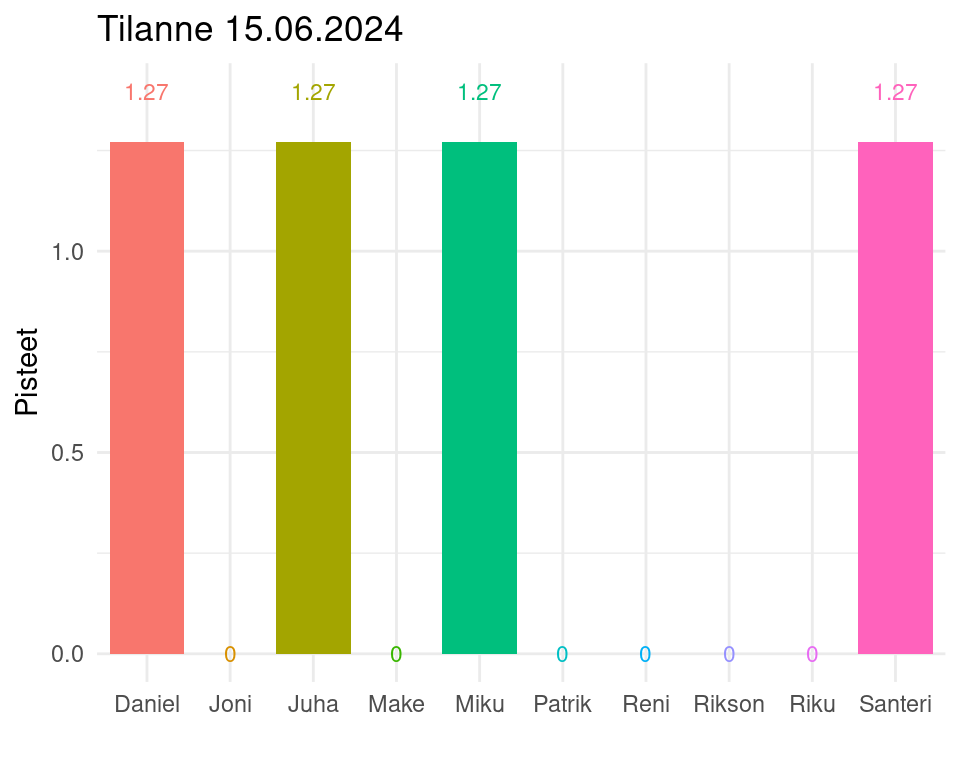
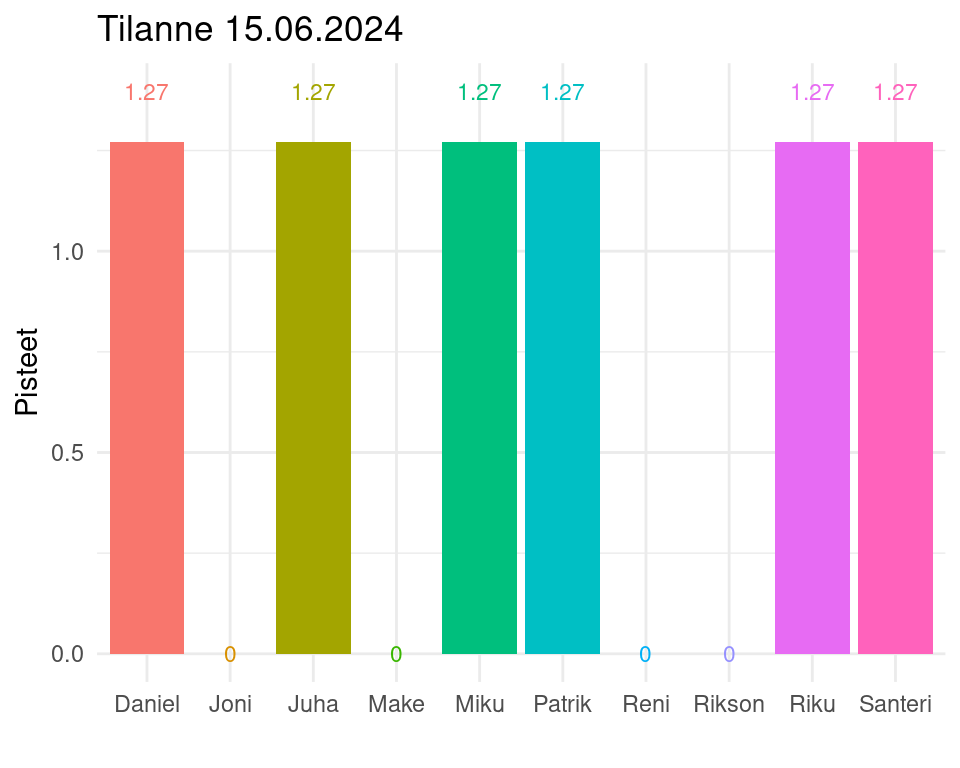
Fixed missing points.

diff --git a/index.html b/index.html
@@ -270,7 +270,7 @@ $(document).ready(function () {
 </div>
 
 
-<p><strong>Viimeksi päivitetty</strong>: 15.06.2024 klo 10.27</p>
+<p><strong>Viimeksi päivitetty</strong>: 15.06.2024 klo 10.53</p>
 <div id="kokonaiskisa" class="section level2 tabset">
 <h2 class="tabset">Kokonaiskisa</h2>
 <p><br /> <br /></p>
@@ -368,6 +368,46 @@ Miku
 </tr>
 <tr>
 <td style="text-align:left;">
+Patrik
+</td>
+<td style="text-align:right;">
+0
+</td>
+<td style="text-align:right;">
+1
+</td>
+<td style="text-align:right;">
+1.27
+</td>
+<td style="text-align:right;font-weight: bold;">
+1.27
+</td>
+<td style="text-align:right;font-style: italic;">
+0.00
+</td>
+</tr>
+<tr>
+<td style="text-align:left;">
+Riku
+</td>
+<td style="text-align:right;">
+0
+</td>
+<td style="text-align:right;">
+1
+</td>
+<td style="text-align:right;">
+1.27
+</td>
+<td style="text-align:right;font-weight: bold;">
+1.27
+</td>
+<td style="text-align:right;font-style: italic;">
+0.00
+</td>
+</tr>
+<tr>
+<td style="text-align:left;">
 Santeri
 </td>
 <td style="text-align:right;">
@@ -428,26 +468,6 @@ Make
 </tr>
 <tr>
 <td style="text-align:left;">
-Patrik
-</td>
-<td style="text-align:right;">
-0
-</td>
-<td style="text-align:right;">
-0
-</td>
-<td style="text-align:right;">
-0.00
-</td>
-<td style="text-align:right;font-weight: bold;">
-0.00
-</td>
-<td style="text-align:right;font-style: italic;">
-0.00
-</td>
-</tr>
-<tr>
-<td style="text-align:left;">
 Reni
 </td>
 <td style="text-align:right;">
@@ -469,26 +489,6 @@ Reni
 <tr>
 <td style="text-align:left;">
 Rikson
-</td>
-<td style="text-align:right;">
-0
-</td>
-<td style="text-align:right;">
-0
-</td>
-<td style="text-align:right;">
-0.00
-</td>
-<td style="text-align:right;font-weight: bold;">
-0.00
-</td>
-<td style="text-align:right;font-style: italic;">
-0.00
-</td>
-</tr>
-<tr>
-<td style="text-align:left;">
-Riku
 </td>
 <td style="text-align:right;">
 0
@@ -828,16 +828,19 @@ style="     color: white !important;border-radius: 4px; padding-right: 4px; padd
 </td>
 <td style="text-align:left;">
 <span
+style="     color: white !important;border-radius: 4px; padding-right: 4px; padding-left: 4px; background-color: darkgreen !important;">1.27</span>
+</td>
+<td style="text-align:left;">
+<span
 style="     color: white !important;border-radius: 4px; padding-right: 4px; padding-left: 4px; background-color: darksalmon !important;">0</span>
 </td>
 <td style="text-align:left;">
-1-1
+<span
+style="     color: white !important;border-radius: 4px; padding-right: 4px; padding-left: 4px; background-color: darksalmon !important;">0</span>
 </td>
 <td style="text-align:left;">
-1-2
-</td>
-<td style="text-align:left;">
-2-0
+<span
+style="     color: white !important;border-radius: 4px; padding-right: 4px; padding-left: 4px; background-color: darkgreen !important;">1.27</span>
 </td>
 <td style="text-align:left;">
 <span
@@ -3053,7 +3056,7 @@ A
 2-1
 </td>
 <td style="text-align:left;">
-0
+1.27
 </td>
 <td style="text-align:left;">
 1-1
@@ -3071,7 +3074,7 @@ A
 2-0
 </td>
 <td style="text-align:left;">
-0
+1.27
 </td>
 <td style="text-align:left;">
 3-1
